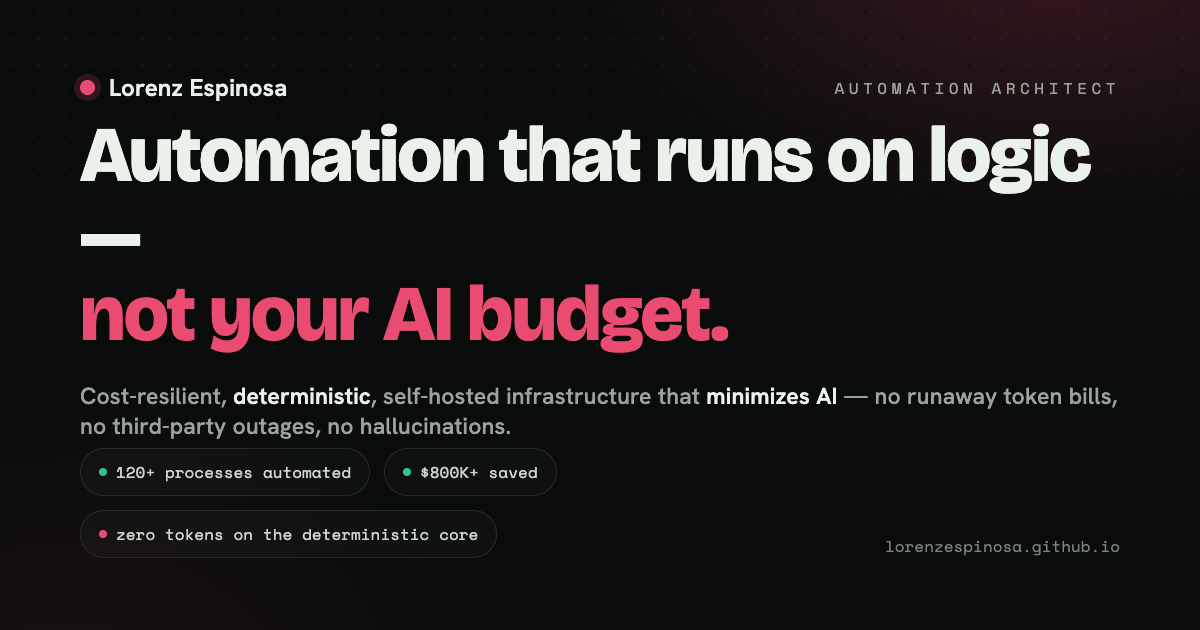
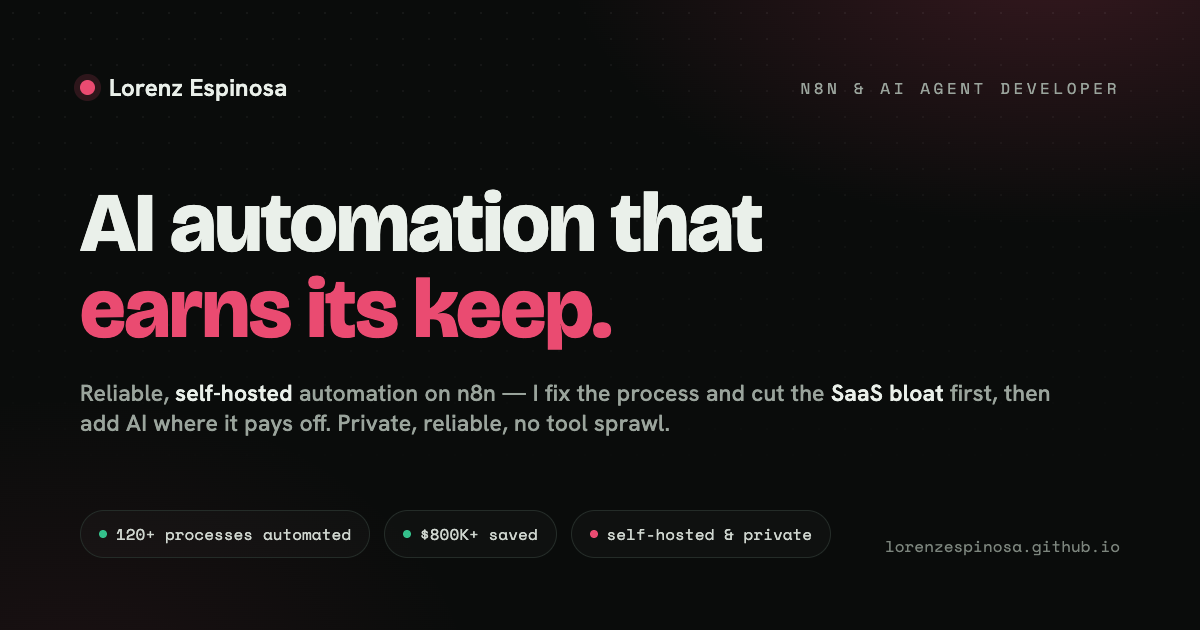
refactor(copy): reposition to "AI automation that earns its keep" (demand-driven)
Research (82-source NotebookLM study of buyer demand) showed the token-tax /
minimize-AI framing is mis-targeted for ops-heavy SMB clients: they search/hire
"n8n" + "AI agent developer", token cost is a rounding error at their scale, and
an anti-AI brand suppresses inbound. The sellable wedge is killing SaaS/Zapier
subscription creep + self-hosting/privacy + reliability, positioned as an
"AI pragmatist," not an AI skeptic.

Reframe across the page: title/meta/OG/JSON-LD, hero ("AI automation that earns
its keep", n8n & AI agent developer), Who-I-help (tool sprawl / SaaS bills /
hallucination personas), About, Services (AI Agents & Orchestration; Automation
& Cost Audit), stack header, pull-quote, FAQ ("Won't this just be more AI tools
and bills?"), final CTA. Regenerated OG card to match. All real numbers
preserved (120+, $800K+, -70%, +30%). Token-tax demoted to an enterprise footnote.

diff --git a/index.html b/index.html
@@ -4,10 +4,10 @@
 <meta charset="UTF-8" />
 <meta name="viewport" content="width=device-width, initial-scale=1.0" />
 <script>/* FOUC-free theme resolver — must run before any stylesheet. */(function(){try{var s=localStorage.getItem('theme');var d=window.matchMedia('(prefers-color-scheme:dark)').matches;if(s==='dark'||(!s&&d))document.documentElement.setAttribute('data-theme','dark');}catch(e){}})();</script>
-<title>Lorenz Espinosa · Automation Architect | Cost-resilient, deterministic automation that minimizes AI</title>
-<meta name="description" content="I build cost-resilient, deterministic automation infrastructure that minimizes AI — protecting ops-heavy businesses from runaway token bills, third-party API outages, and hallucinations in business-critical work. 120+ processes automated, $800K+ saved. Self-hosted on n8n, Docker, Traefik, Supabase." />
+<title>Lorenz Espinosa · Automation Architect | n8n &amp; AI Agent Developer — reliable, self-hosted automation that earns its keep</title>
+<meta name="description" content="I build reliable AI automation on self-hosted n8n for ops-heavy businesses — fixing the broken process and cutting SaaS/Zapier bloat first, then adding AI exactly where it earns its keep. No tool sprawl, no AI slop, your data stays private. 120+ processes automated, $800K+ saved." />
 <meta property="og:title" content="Lorenz Espinosa · Automation Architect" />
-<meta property="og:description" content="Cost-resilient, deterministic automation that minimizes AI — no runaway token bills, no third-party outages, no hallucinations. 120+ processes automated, $800K+ saved." />
+<meta property="og:description" content="Reliable, self-hosted AI automation that earns its keep — I fix the process and cut SaaS bloat first, then add AI where it pays off. No tool sprawl, no slop, your data stays private. 120+ automated, $800K+ saved." />
 <meta property="og:type" content="website" />
 <meta property="og:url" content="https://lorenzespinosa.github.io/" />
 <meta property="og:image" content="https://lorenzespinosa.github.io/og-image.png" />
@@ -15,7 +15,7 @@
 <meta property="og:image:height" content="630" />
 <meta name="twitter:card" content="summary_large_image" />
 <meta name="twitter:title" content="Lorenz Espinosa · Automation Architect" />
-<meta name="twitter:description" content="Cost-resilient, deterministic automation that minimizes AI — no runaway token bills, no third-party outages, no hallucinations. 120+ processes automated, $800K+ saved." />
+<meta name="twitter:description" content="Reliable, self-hosted AI automation that earns its keep — I fix the process and cut SaaS bloat first, then add AI where it pays off. No tool sprawl, no slop, your data stays private. 120+ automated, $800K+ saved." />
 <meta name="twitter:image" content="https://lorenzespinosa.github.io/og-image.png" />
 <meta name="theme-color" id="theme-color" content="#f6f7f8" />
 <link rel="canonical" href="https://lorenzespinosa.github.io/" />
@@ -40,15 +40,15 @@
       "url":"https://lorenzespinosa.github.io/",
       "email":"renzespinosa13@gmail.com",
       "sameAs":["https://github.com/lorenzespinosa","https://www.linkedin.com/in/lorenz-leslie-espinosa/"],
-      "knowsAbout":["Deterministic automation","Self-hosted infrastructure","Cost optimization","n8n","Docker Compose","Traefik","Supabase","Qdrant","Hybrid model routing","Semantic caching","Python","API integration"]
+      "knowsAbout":["AI automation","AI agents","n8n","Workflow automation","Zapier to n8n migration","Self-hosted infrastructure","Data privacy","Cost optimization","Docker Compose","Supabase","Qdrant","Python"]
     },
     {
       "@type":"ProfessionalService",
       "name":"Lorenz Espinosa · Automation Architecture",
-      "description":"Cost-resilient, deterministic automation infrastructure for ops-heavy businesses. Self-hosted, webhook-driven systems that minimize AI to cut token costs, eliminate third-party API downtime, and prevent hallucinations in business-critical work. Automation audits, fixed-scope builds, lean AI and hybrid orchestration, and fractional engineering.",
+      "description":"Reliable, self-hosted AI automation for ops-heavy businesses. A pragmatic approach: fix the broken process and cut SaaS/subscription bloat first, then place AI exactly where it earns its keep — on self-hosted n8n, private and reliable, with no tool sprawl or hallucinations in business-critical work. Automation audits, fixed-scope builds, AI agents and orchestration, and fractional engineering.",
       "url":"https://lorenzespinosa.github.io/",
       "areaServed":"Worldwide (remote)",
-      "serviceType":["Automation Audit","Automation Build","Lean AI & Hybrid Orchestration","Fractional Automation Engineering"]
+      "serviceType":["Automation & Cost Audit","Automation Build","AI Agents & Orchestration","Fractional Automation Engineering"]
     }
   ]
 }
@@ -83,12 +83,12 @@
     <div class="hero-inner">
     <div class="hero-copy">
     <span class="pill reveal"><span class="live"></span> Available for new projects · Remote worldwide</span>
-    <h1 class="reveal">I build automation that runs on logic — <span class="accent">not your AI budget.</span></h1>
-    <p class="lede reveal">I'm an automation architect for ops-heavy businesses. I build <b>cost-resilient, deterministic infrastructure</b> that minimizes AI — so a runaway agent can't quietly multiply your token bill, a third-party API outage can't take your operations down, and a hallucination can't corrupt a business-critical record. The heavy lifting stays <b>local, predictable, and self-hosted</b>.</p>
+    <h1 class="reveal">I build AI automation that <span class="accent">earns its keep.</span></h1>
+    <p class="lede reveal">I'm an automation architect and <b>n8n &amp; AI agent developer</b> for ops-heavy businesses. I fix the broken process and cut your <b>SaaS &amp; Zapier bloat</b> first, then add AI exactly where it earns its keep — all on <b>self-hosted n8n</b>, so your data stays private and your stack stays reliable. No tool sprawl, no AI slop, nothing that hallucinates into business-critical work.</p>
     <div class="hero-proof reveal">
       <span><b>120+</b> processes automated</span>
       <span><b>$800K+</b> in cost saved</span>
-      <span><b>Zero</b> tokens on the deterministic core</span>
+      <span><b>Self-hosted</b> &amp; private</span>
     </div>
     <div class="cta-row reveal">
       <a class="btn btn-primary" href="mailto:renzespinosa13@gmail.com?subject=Automation%20project%20inquiry&body=Hi%20Lorenz%2C%0A%0AGoal%3A%0ASystems%2Ftools%20involved%3A%0ATimeline%3A%0A">Book a free 15-min call <span class="arr">→</span></a>
@@ -132,7 +132,7 @@
     <p class="scrolly-eyebrow">How it feels</p>
     <h2 class="scrolly-head">
       <span class="flip-before">Manual work, all day.</span>
-      <span class="flip-after">A deterministic pipeline you own.</span>
+      <span class="flip-after">One clean system you own.</span>
     </h2>
     <div class="flow-viz" aria-hidden="true">
       <div class="frame frame-chaos">
@@ -173,7 +173,7 @@
       <article class="btile btile--feature">
         <span class="btile-eyebrow">Cost savings delivered</span>
         <div class="btile-metric"><span class="n" data-prefix="$" data-count="800" data-suffix="K+">$0</span></div>
-        <p class="btile-note">Hard-dollar savings across <b>120+ automations running in production</b> — manual hours eliminated and cloud-LLM token bills kept off the books. A conservative running total, and still climbing.</p>
+        <p class="btile-note">Hard-dollar savings across <b>120+ automations running in production</b> — manual hours eliminated and redundant SaaS subscriptions cut. A conservative running total, and still climbing.</p>
       </article>
       <article class="btile">
         <span class="btile-eyebrow">Automations in production</span>
@@ -201,7 +201,7 @@
         </div>
       </article>
       <article class="btile btile--cta">
-        <p>AI vendors quietly draining your margins?</p>
+        <p>Tool sprawl quietly draining your margins?</p>
         <a class="btn btn-primary" href="mailto:renzespinosa13@gmail.com?subject=Automation%20project%20inquiry&body=Hi%20Lorenz%2C%0A%0AGoal%3A%0ASystems%2Ftools%20involved%3A%0ATimeline%3A%0A">Book a free 15-min call <span class="arr">→</span></a>
       </article>
     </div>
@@ -213,7 +213,7 @@
   <div class="wrap">
     <div class="eyebrow reveal">The math</div>
     <h2 class="reveal">What's all that manual work costing you?</h2>
-    <p class="sec-lede reveal">Every hour your team spends copy-pasting is money out the door — and every task you hand to a cloud LLM stacks a token bill on top. Drag the sliders and watch the manual cost alone add up.</p>
+    <p class="sec-lede reveal">Every hour your team spends copy-pasting is money out the door — and the SaaS subscriptions quietly stacking up alongside it. Drag the sliders and watch the manual cost alone add up.</p>
     <div class="calc reveal">
       <div class="calc-inputs">
         <div class="calc-field">
@@ -253,25 +253,25 @@
   <div class="wrap">
     <div class="eyebrow reveal">Who I help</div>
     <h2 class="reveal">If you're one of these, we should talk.</h2>
-    <p class="sec-lede reveal">An autonomous AI agent can burn <b>5–30× the tokens</b> of a single chatbot reply — and the cheap pricing is already cracking: when GitHub rolled out premium AI requests it priced some models at <b>3.6–6× the base rate</b>. Today's API prices are still subsidized below true compute cost; the teams that wired AI into everything are the ones now getting the bill. If that's you, this is fixable.</p>
+    <p class="sec-lede reveal">You've probably already got AI tools — and the sprawl, the climbing Zapier/SaaS bills, and the outputs nobody fully trusts that come with them. I build automation that actually holds, on infrastructure you own, and add AI only where it earns its keep.</p>
     <div class="persona-grid">
       <div class="persona reveal">
         <div class="pic"><svg viewBox="0 0 24 24"><circle cx="12" cy="12" r="9"/><circle cx="12" cy="12" r="5"/><circle cx="12" cy="12" r="1.5"/></svg></div>
         <h3>The Founder</h3>
-        <p class="quote">"Our automation works, but the AI bill keeps climbing and I can't predict what next month costs."</p>
-        <div class="out">Cap the AI spend →</div>
+        <p class="quote">"We bolted AI onto everything, and now it's a tangle of tools and subscriptions I can't keep straight."</p>
+        <div class="out">Cut the tool sprawl →</div>
       </div>
       <div class="persona reveal">
         <div class="pic"><svg viewBox="0 0 24 24"><path d="M20 7h-9"/><path d="M14 17H5"/><circle cx="17" cy="17" r="3"/><circle cx="7" cy="7" r="3"/></svg></div>
         <h3>The Ops Lead</h3>
-        <p class="quote">"Half our stack depends on someone else's API. When it rate-limits or goes down, our operations stop cold."</p>
-        <div class="out">Own your infrastructure →</div>
+        <p class="quote">"Our Zapier and Make bills keep climbing, and things still break every time an integration changes."</p>
+        <div class="out">Self-hosted &amp; reliable →</div>
       </div>
       <div class="persona reveal">
         <div class="pic"><svg viewBox="0 0 24 24"><path d="M12 22s8-4 8-10V5l-8-3-8 3v7c0 6 8 10 8 10z"/><path d="m8.5 12 2.5 2.5L16 9"/></svg></div>
         <h3>The Margin-Watcher</h3>
         <p class="quote">"An AI 'helper' hallucinated a number straight into a client record. Now I don't trust a model near anything critical."</p>
-        <div class="out">Make critical paths deterministic →</div>
+        <div class="out">Keep AI safely in its lane →</div>
       </div>
     </div>
   </div>
@@ -280,7 +280,7 @@
 <section id="about">
   <div class="wrap">
     <div class="eyebrow reveal">Who you'd be working with</div>
-    <h2 class="reveal">Hi, I'm Lorenz. I build deterministic automation that holds up in production.</h2>
+    <h2 class="reveal">Hi, I'm Lorenz. I build reliable AI automation that holds up in production.</h2>
     <div class="about-grid">
       <div class="about-photo reveal">
         <picture>
@@ -290,8 +290,8 @@
         <div class="badge"><span class="d"></span>Available for new projects</div>
       </div>
       <div class="about-bio reveal">
-        <p>I'm an automation architect who builds <b>deterministic, self-hosted, webhook-driven systems</b> for ops-heavy teams. I've automated 120+ real operational workflows across intake, case and record management, billing, and client communication — and I treat every cloud-LLM call as a cost and a risk to be minimized, not a default. I design for the messy edge cases real businesses actually hit, not the happy path in a demo.</p>
-        <p>Every build ships with <b>validation, retries, fallback paths, and audit logging</b> from day one, plus documentation so your team owns it. No brittle scripts, no black boxes, nothing that fails quietly — and nothing quietly metering your account by the token.</p>
+        <p>I'm an automation architect and <b>n8n &amp; AI agent developer</b> who builds reliable, self-hosted automation for ops-heavy teams. I've automated 120+ real operational workflows across intake, case and record management, billing, and client communication. My approach is pragmatic: fix the broken process and cut the SaaS bloat first, then put AI exactly where it earns its keep — no tool sprawl, no slop. I design for the messy edge cases real businesses actually hit, not the happy path in a demo.</p>
+        <p>Every build ships with <b>validation, retries, fallback paths, and audit logging</b> from day one, plus documentation so your team owns it. No brittle scripts, no black boxes, nothing that fails quietly — and nothing quietly racking up subscriptions behind your back.</p>
         <p class="about-cred">Beyond automation builds, I've run <b>enterprise Microsoft&nbsp;Cloud and multi-tenant IT + marketing automation</b> for <b>Le&nbsp;Cordon&nbsp;Bleu International</b> — so I'm as comfortable in a large multi-tenant environment as I am wiring up a lean ops stack.</p>
         <div class="trust-pills">
           <span class="trust-pill"><span class="d"></span>n8n Level 2 Certified</span>
@@ -306,7 +306,7 @@
     <div class="trust-cards">
       <div class="tcard reveal">
         <div class="ic"><svg viewBox="0 0 24 24"><rect x="4" y="11" width="16" height="10" rx="2"/><path d="M8 11V7a4 4 0 0 1 8 0v4"/></svg></div>
-        <div><b>Self-hosted &amp; private</b><p>Runs on your own infrastructure — self-hosted n8n on Docker Compose behind Traefik. No third-party middleman sitting on your data, metering your tokens, or going down on you.</p></div>
+        <div><b>Self-hosted &amp; private</b><p>Runs on your own infrastructure — self-hosted n8n on Docker. No third-party middleman sitting on your data, no per-task SaaS fees, and nothing going down on you when a vendor does.</p></div>
       </div>
       <div class="tcard reveal">
         <div class="ic"><svg viewBox="0 0 24 24"><path d="M14 3v4a1 1 0 0 0 1 1h4"/><path d="M17 21H7a2 2 0 0 1-2-2V5a2 2 0 0 1 2-2h7l5 5v11a2 2 0 0 1-2 2z"/><path d="M9 13h6M9 17h4"/></svg></div>
@@ -324,11 +324,11 @@
   <div class="wrap">
     <div class="eyebrow reveal">Selected work</div>
     <h2 class="reveal">Stuff I've actually shipped.</h2>
-    <p class="sec-lede reveal">Not demos or weekend prototypes. Real systems running in production — most of them shifting a business off fragile, high-token AI wrappers and onto robust, self-hosted orchestration, with the numbers to back it up.</p>
+    <p class="sec-lede reveal">Not demos or weekend prototypes. Real systems running in production — most of them replacing brittle, sprawling tool stacks with reliable, self-hosted automation, with the numbers to back it up.</p>
     <div class="work-grid">
       <div class="work reveal">
         <span class="st">Live · v5.0</span>
-        <h3>OpenClaw + Slack — AI on a leash, deterministic at the core</h3>
+        <h3>OpenClaw + Slack — AI agents done right, deterministic at the core</h3>
         <p>A controller that hands work to specialist AI agents only behind a human approval step, wired to 21 MCP tools inside Slack — while the deterministic work runs as plain code, so no tokens are burned on anything a rule can decide.</p>
         <div class="result"><span class="big">21</span><span class="desc">MCP tools · zero tokens on deterministic tasks</span></div>
         <div class="stk">OpenClaw · Slack · n8n MCP · Claude</div>
@@ -394,7 +394,7 @@
   <div class="wrap">
     <div class="eyebrow reveal">Open source</div>
     <h2 id="os-h" class="reveal">The patterns behind the promise.</h2>
-    <p class="sec-lede reveal">I open-source the building blocks I ship with — the validate → retry → fallback → audit discipline that keeps the core deterministic and AI on a leash, as real, public code you can read before we ever talk. Skim the value line; open the repo only if you want the proof.</p>
+    <p class="sec-lede reveal">I open-source the building blocks I ship with — the validate → retry → fallback → audit discipline that keeps the core reliable and AI where it earns its keep, as real, public code you can read before we ever talk. Skim the value line; open the repo only if you want the proof.</p>
     <div class="repo-grid">
       <a class="repo reveal" href="https://github.com/lorenzespinosa/openclaw-n8n-stack" target="_blank" rel="noopener">
         <div class="repo-top"><span class="repo-name">openclaw-n8n-stack</span><span class="repo-star" aria-label="2 stars">★ 2</span></div>
@@ -448,34 +448,34 @@
 <section id="services">
   <div class="wrap">
     <div class="eyebrow reveal">What I build</div>
-    <h2 class="reveal">Four ways to get your busywork off your plate — and AI off your budget.</h2>
-    <p class="sec-lede reveal">Everything I build is deterministic by default, self-hosted, and shipped with real error handling, logging, and docs — so it stays cheap to run and impossible to hallucinate. Not a brittle AI wrapper that falls over the first time a model or an API changes.</p>
+    <h2 class="reveal">Four ways to get your busywork off your plate — done right.</h2>
+    <p class="sec-lede reveal">Everything I build is self-hosted, reliable, and shipped with real error handling, logging, and docs — with AI placed only where it earns its keep. Not a brittle stack of AI wrappers that falls over the first time a tool or an API changes.</p>
     <div class="svc-grid">
       <div class="card reveal">
         <span class="num">01</span>
-        <h3>🔍 Automation &amp; AI-Cost Audit</h3>
-        <p>I go through how your team actually works, figure out what's worth automating first, and give you a ranked plan with rough effort and payoff for each one. I also flag where you're overpaying a cloud LLM for work that deterministic logic could do for free. The low-risk way to start.</p>
+        <h3>🔍 Automation &amp; Cost Audit</h3>
+        <p>I go through how your team actually works, figure out what's worth automating first, and give you a ranked plan with rough effort and payoff for each one. I also flag the overlapping tools and SaaS subscriptions you're overpaying for, and where self-hosting would cut the bill. The low-risk way to start.</p>
         <div class="price">From $750 <span>· fixed fee</span></div>
         <span class="tag">Best first step · ~1 week</span>
       </div>
       <div class="card reveal">
         <span class="num">02</span>
         <h3>⚙ Build &amp; Ship</h3>
-        <p>One project, clear scope, built deterministic and self-hosted, start to finish and tested. You get something your team can lean on day one — running on your own infrastructure, not a metered API — plus the docs to go with it.</p>
+        <p>One project, clear scope, built and tested start to finish on self-hosted infrastructure. You get something your team can lean on day one — private, reliable, and yours to own — plus the docs to go with it.</p>
         <div class="price">From $2,500 <span>· fixed scope</span></div>
         <span class="tag">Most popular · 2 to 4 weeks</span>
       </div>
       <div class="card reveal">
         <span class="num">03</span>
-        <h3>🤖 Lean AI &amp; Hybrid Orchestration</h3>
-        <p>When you genuinely need a model, I make it earn its cost: hybrid routing to the cheapest capable model, semantic caching to kill repeat calls, and a human approval gate so nothing — and no token bill — goes off the rails.</p>
+        <h3>🤖 AI Agents &amp; Orchestration</h3>
+        <p>AI agents that do real operational work — wired to the right tools, gated by human approval, and kept efficient so they don't sprawl or run up surprise bills. AI placed where it earns its keep, not bolted onto everything.</p>
         <div class="price">From $4,500 <span>· per project</span></div>
-        <span class="tag">For teams who need AI without the bill</span>
+        <span class="tag">For teams putting AI into production</span>
       </div>
       <div class="card reveal">
         <span class="num">04</span>
         <h3>🔁 Fractional Automation Engineer</h3>
-        <p>I take your automation backlog off your hands: keep your self-hosted stack healthy and your token spend flat, fix what breaks, and ship something new every month. An in-house engineer without the hire.</p>
+        <p>I take your automation backlog off your hands: keep your self-hosted stack healthy and your subscriptions lean, fix what breaks, and ship something new every month. An in-house engineer without the hire.</p>
         <div class="price">$1,500<span>/mo · retainer</span></div>
         <span class="tag">Ongoing · monthly retainer</span>
       </div>
@@ -501,8 +501,8 @@
 <section>
   <div class="wrap">
     <div class="pattern reveal">
-      <p class="q">"I don't reach for AI by default. I reach for the cheapest thing that's <em>predictable</em> — usually plain, deterministic logic. A model only earns a place when nothing else can do the job, and even then it runs on a leash."</p>
-      <p class="by">how every build works · deterministic core, AI on a leash, retry + fallback + audit</p>
+      <p class="q">"I'm not here to bolt AI onto everything. I fix the process, cut the bloat, and put AI exactly where it <em>earns its keep</em> — so what you ship is reliable, private, and actually worth paying for."</p>
+      <p class="by">how every build works · fix the process · cut the bloat · AI where it earns its keep · retry + fallback + audit</p>
     </div>
   </div>
 </section>
@@ -517,7 +517,7 @@
         <div class="chips"><span class="chip">n8n</span><span class="chip">Docker Compose</span><span class="chip">Traefik</span><span class="chip">Temporal</span><span class="chip">Make</span></div>
       </div>
       <div class="stk-col reveal">
-        <h4>AI — minimized &amp; on a leash</h4>
+        <h4>AI — where it earns its keep</h4>
         <div class="chips"><span class="chip">Local models</span><span class="chip">Claude (capped)</span><span class="chip">Semantic cache</span><span class="chip">Hybrid routing</span><span class="chip">MCP</span></div>
       </div>
       <div class="stk-col reveal">
@@ -538,8 +538,8 @@
         <div class="ans">A free 15-minute call. You tell me the <b>goal</b>, the <b>tools involved</b>, and your <b>timeline</b>, and I tell you straight whether it's a fit and the fastest way to ship it. No pressure, no obligation. A lot of people start with a small Automation Audit to test the water before committing to a build.</div></details>
       <details class="faq reveal"><summary>What does it cost?<span class="pl">+</span></summary>
         <div class="ans">It depends on scope, so I quote per project after the call. As a rough guide: a focused <b>Automation Audit starts around $750</b>, a fixed-scope <b>Build &amp; Ship from $2,500</b>, and an ongoing <b>retainer from $1,500/month</b>. No surprise invoices, and you'll get a clear proposal with deliverables and a timeline before anything starts.</div></details>
-      <details class="faq reveal"><summary>Why minimize AI instead of leaning into it?<span class="pl">+</span></summary>
-        <div class="ans">Because cloud LLMs are the most expensive and least predictable part of any stack. An autonomous agent can burn <b>5–30× the tokens</b> of a single chatbot call, and today's API prices are still subsidized below true compute cost — Sequoia pegged the gap as the industry's <b>$600B question</b>, and the hikes have started (GitHub priced some premium AI models at 3.6–6× base). When the subsidy fully unwinds, the bill lands on you. Deterministic logic, by contrast, is <b>free to run, can't hallucinate, and doesn't depend on someone else's uptime</b>. I use AI only where it genuinely earns its cost, with semantic caching and hybrid routing to keep what's left cheap.</div></details>
+      <details class="faq reveal"><summary>Won't this just be more AI tools and bills?<span class="pl">+</span></summary>
+        <div class="ans">No — the opposite. Most teams already have <b>AI sprawl</b>: overlapping tools, climbing Zapier/SaaS subscriptions, and outputs nobody fully trusts. I consolidate onto <b>self-hosted n8n</b> — which kills per-task SaaS fees and keeps your data private — and add AI only where it earns its keep: gated, efficient, and reliable. You end up with <b>less tooling, lower fixed costs, and AI you can actually trust</b> in business-critical work. (For high-volume teams whose LLM spend is already a real line item, I do token-level cost work too — hybrid routing, semantic caching, self-hosted models.)</div></details>
       <details class="faq reveal"><summary>Do you work with the tools we already use?<span class="pl">+</span></summary>
         <div class="ans">Almost certainly. I build mostly in <b>n8n</b>, with Make, Zapier, and Power Automate when they fit better, and I connect to whatever you already run: CRMs, billing, phone systems, databases, and AI models over API and MCP. If it has an API or a webhook, it can usually be automated.</div></details>
       <details class="faq reveal"><summary>What happens when something breaks?<span class="pl">+</span></summary>
@@ -556,7 +556,7 @@
 {"@context":"https://schema.org","@type":"FAQPage","mainEntity":[
 {"@type":"Question","name":"How do projects usually start?","acceptedAnswer":{"@type":"Answer","text":"A free 15-minute call where you share the goal, tools, and timeline. Many clients begin with a small Automation Audit to de-risk before a full build."}},
 {"@type":"Question","name":"What does it cost?","acceptedAnswer":{"@type":"Answer","text":"Quoted per project after a discovery call. Engagements range from a focused audit to fixed-scope builds to monthly retainers, always with a clear proposal up front."}},
-{"@type":"Question","name":"Why minimize AI instead of leaning into it?","acceptedAnswer":{"@type":"Answer","text":"Cloud LLMs are the most expensive and least predictable part of any stack. An autonomous agent can burn 5 to 30 times the tokens of a single chatbot call, and API prices are still subsidized below true compute cost (Sequoia called it the industry's 600 billion dollar question, and GitHub already priced some premium AI models at 3.6 to 6 times base). Deterministic logic is free to run, cannot hallucinate, and does not depend on third-party uptime. AI is used only where it earns its cost, with semantic caching and hybrid routing to keep it cheap."}},
+{"@type":"Question","name":"Won't this just be more AI tools and bills?","acceptedAnswer":{"@type":"Answer","text":"No, the opposite. Most teams already have AI sprawl: overlapping tools, climbing Zapier and SaaS subscriptions, and outputs nobody fully trusts. I consolidate onto self-hosted n8n, which kills per-task SaaS fees and keeps your data private, and add AI only where it earns its keep: gated, efficient, and reliable. You end up with less tooling, lower fixed costs, and AI you can trust in business-critical work. For high-volume teams whose LLM spend is already significant, I also do token-level cost work with hybrid routing, semantic caching, and self-hosted models."}},
 {"@type":"Question","name":"Do you work with the tools we already use?","acceptedAnswer":{"@type":"Answer","text":"Yes, mostly self-hosted n8n on Docker, plus Make and Power Automate, connecting to CRMs, billing, phone systems, databases, and — where it earns its cost — AI models over API and MCP."}},
 {"@type":"Question","name":"What happens when something breaks?","acceptedAnswer":{"@type":"Answer","text":"Every system has retries, fallback paths, and logging from day one. When something fails you get alerted, it is logged, and there is a way to recover. Because the core is deterministic and self-hosted, there is no third-party API to rate-limit you and no model to hallucinate into a critical field."}},
 {"@type":"Question","name":"Are you available, and how do you work?","acceptedAnswer":{"@type":"Answer","text":"Currently available for new projects. Fully remote, working with teams worldwide across time zones, with replies typically within one business day."}},
@@ -567,7 +567,7 @@
 <section class="final">
   <div class="wrap">
     <div class="eyebrow reveal" style="justify-content:center">Let's talk</div>
-    <h2 class="reveal">Got a process bleeding hours — or an AI bill bleeding margin? <em>Let's fix it.</em></h2>
+    <h2 class="reveal">Drowning in tools and subscriptions — or a process that still eats hours? <em>Let's fix it.</em></h2>
     <p class="reveal">Tell me your goal, the tools involved, and your timeline. I'll reply with whether it's a fit and the fastest way to ship it.</p>
     <div class="cta-row reveal">
       <a class="btn btn-primary" href="mailto:renzespinosa13@gmail.com?subject=Automation%20project%20inquiry&body=Hi%20Lorenz%2C%0A%0AGoal%3A%0ASystems%2Ftools%20involved%3A%0ATimeline%3A%0A">Book a free 15-min call <span class="arr">→</span></a>
